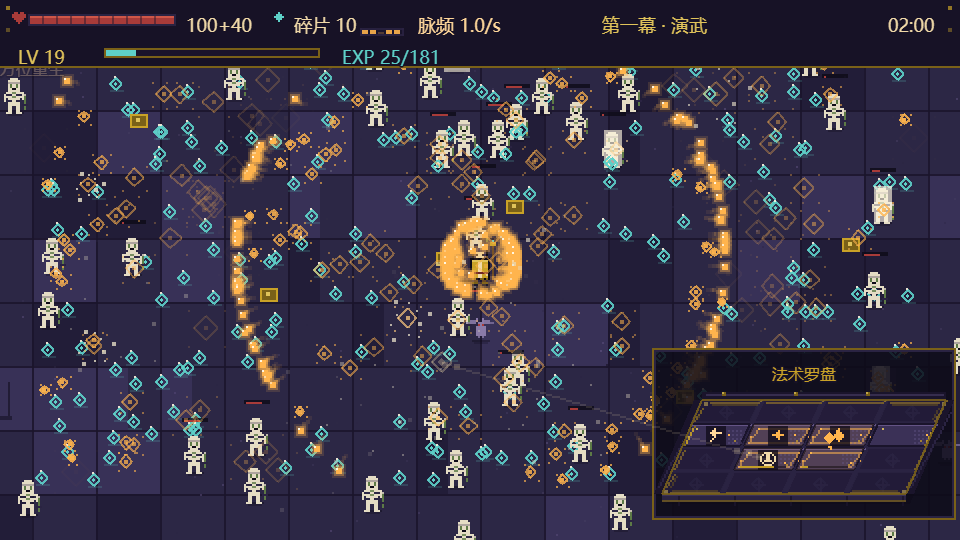
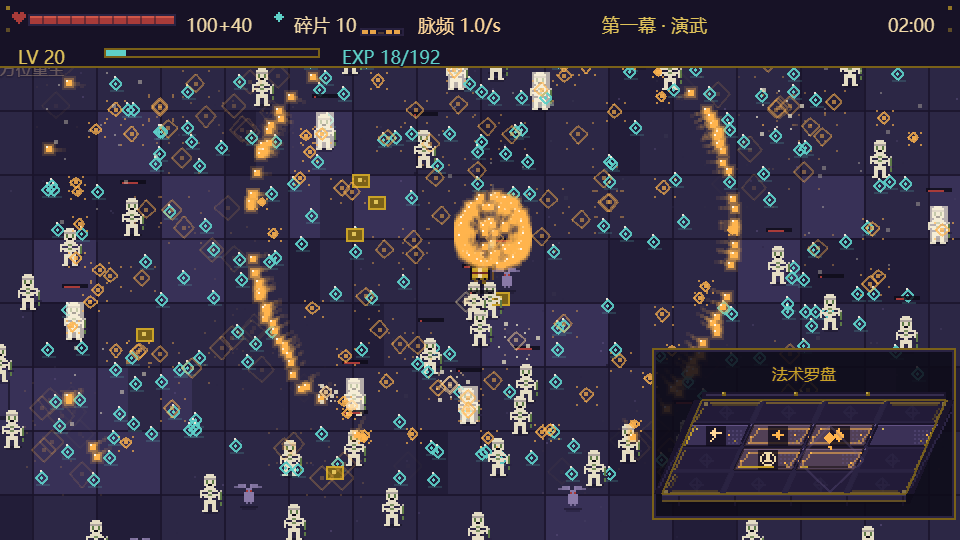
feat: 法术特效统一从法杖起手；E 编辑法阵界面同步美化

diff --git a/src/scenes/BattleScene.js b/src/scenes/BattleScene.js
@@ -25,7 +25,7 @@ import Boss from '../entities/Boss.js';
 import EncounterPanel from '../ui/EncounterPanel.js';
 import {
   ACT1_CELLS, ACT1_SIGIL_BY_CELL, SIGILS, ENEMY_TYPES, SECTOR,
-  COMBO_NAMES, difficultyAt, PLAYER, cardVisual, pickEnemyType,
+  COMBO_NAMES, difficultyAt, PLAYER, cardVisual, pickEnemyType, RUNE_GLYPHS,
 } from '../data/roster.js';
 import Background from '../ui/Background.js';
 import SigilBoard, { cellCenter } from '../ui/SigilBoard.js';
@@ -36,7 +36,8 @@ import Player from '../entities/Player.js';
 import Enemy from '../entities/Enemy.js';
 import Projectile from '../entities/Projectile.js';
 import Shard from '../entities/Shard.js';
-import { C, HEX, addText, pxRect, pxFrame, pxDiamond, applyPixelZoom, getRenderScale, uiLayerOffset } from '../ui/Palette.js';
+import { C, HEX, addText, pxRect, pxFrame, pxLine, pxPoly, pxDiamond, drawGlyph, applyPixelZoom, getRenderScale, uiLayerOffset } from '../ui/Palette.js';
+import { decoratePlan } from '../ui/board-decor.js';
 import { sfx, toggleSound } from '../audio/Sfx.js';
 
 const BATTLE = { left: 10, right: 470, top: 26, bottom: 262 };
@@ -351,7 +352,8 @@ export default class BattleScene extends Phaser.Scene {
           break;
         }
         const def = this.sigilOf(cellId);
-        const center = cellCenter(cellId);
+        // 所有法术特效统一从法杖尖端起手（世界坐标）；罗盘格子只负责闪灯提示
+        const origin = this.player.staffTip();
         // 方位索敌：只打本格对应扇区内的最近敌人；空区也朝区域中心空射
         const result = resolveTarget(
           cellId,
@@ -359,13 +361,16 @@ export default class BattleScene extends Phaser.Scene {
           this.enemies,
         );
         this.board.flashTrigger(cellId);
-        // 设计稿 2.3 核心：从该格指向对应战场方位的高亮光迹（空区也画）
-        this.effects.directionTrace(center, result.aim, this.sectorRect(cellId), def.color, result.empty);
+        // 从法杖指向目标方位的光迹（空区也画，只是终点是区域中心）
+        this.effects.directionTrace(origin, result.aim, this.sectorRect(cellId), def.color, result.empty);
         if (SIGIL_DEFS[def.id]?.kind === 'ward') {
           this.applySigil(cellId, def.id);
         } else {
-          const projectile = this.fireProjectile(center.x, center.y, result.aim.x, result.aim.y, def, result.target);
-          if (projectile) projectile.cellId = cellId;
+          const projectile = this.fireProjectile(origin.x, origin.y, result.aim.x, result.aim.y, def, result.target);
+          if (projectile) {
+            projectile.cellId = cellId;
+            this.effects.burst(origin.x, origin.y, def.color, 5); // 起手微粒
+          }
         }
         break;
       }
@@ -771,37 +776,104 @@ export default class BattleScene extends Phaser.Scene {
       if (hit) hit.action();
     };
     this.input.on('pointerdown', this.editPointer);
+    // 悬停高亮独立成层（与幕间同一套交互语言）：移上去亮框 + 手型光标
+    // 屏幕固定元素必须挂 uiRoot（场景根上的 scrollFactor-0 会被镜头位移甩出屏幕）
+    this.editHoverG = this.add.graphics().setDepth(5001).setScrollFactor(0);
+    this.uiRoot?.add(this.editHoverG);
+    this.editHoverMove = (pointer) => {
+      if (!this.editOpen) return;
+      const scale = getRenderScale();
+      const lx = pointer.x / scale, ly = pointer.y / scale;
+      const hit = this.editRects?.find(r => lx >= r.x && lx <= r.x + r.w && ly >= r.y && ly <= r.y + r.h);
+      const hg = this.editHoverG;
+      hg.clear();
+      if (hit) {
+        pxRect(hg, hit.x, hit.y, hit.w, hit.h, C.stone, 0.35);
+        pxFrame(hg, hit.x, hit.y, hit.w, hit.h, C.brassLight, 1, 0.85);
+        this.game.canvas.style.cursor = 'pointer';
+      } else if (this.game.canvas.style.cursor !== '') {
+        this.game.canvas.style.cursor = '';
+      }
+    };
+    this.input.on('pointermove', this.editHoverMove);
     this.drawGridEdit();
   }
 
   editNames() { return { ...SIGIL_DEFS, ...AUX_DEFS }; }
 
+  // 编辑界面的分区面板：与幕间工作台同一套视觉语言
+  editPanel(g, x, y, w, h) {
+    pxRect(g, x, y, w, h, C.ink, 0.9);
+    pxFrame(g, x, y, w, h, C.brassDark);
+    pxFrame(g, x + 2, y + 2, w - 4, h - 4, C.brass, 1, 0.2);
+    for (const [sx, sy] of [[x, y], [x + w - 3, y], [x, y + h - 3], [x + w - 3, y + h - 3]]) {
+      pxRect(g, sx, sy, 3, 3, C.brass, 0.9);
+      pxRect(g, sx + 1, sy + 1, 1, 1, C.brassLight, 1);
+    }
+  }
+
+  editGlyphOf(defId) {
+    if (RUNE_GLYPHS[defId]) return RUNE_GLYPHS[defId];
+    const kind = SIGIL_DEFS[defId] ? 'sigil' : 'auxiliary';
+    return cardVisual({ kind, defId })?.glyph ?? null;
+  }
+
   drawGridEdit() {
     if (this.editUI) { this.editUI.destroy(true); this.editUI = null; }
+    this.editHoverG?.clear();
     const ui = this.add.container(0, 0).setDepth(3500).setScrollFactor(0);
     this.uiRoot?.add(ui);
+    // 容器内按插入序渲染：editUI 每次重建都会压住悬停层，必须重新带到最顶
+    this.uiRoot?.bringToTop(this.editHoverG);
     this.editUI = ui;
     this.editRects = [];
     const g = this.add.graphics();
     ui.add(g);
-    pxRect(g, 0, 0, 480, 270, C.void, 0.94);
+    // 背景：不透明压底（盖住暂停菜单文字）+ 硬边竖纹 + 双层外框（与幕间同一套语言）
+    pxRect(g, 0, 0, 480, 270, C.void);
+    for (let x = 0; x < 480; x += 24) pxRect(g, x, 0, 12, 270, C.ink, 0.22);
     pxFrame(g, 8, 8, 464, 254, C.brassDark, 2, 1);
-    ui.add(addText(this, 16, 12, '编辑法阵（暂停中 · 冷却保留）', 10, HEX.brassLight));
+    pxFrame(g, 11, 11, 458, 248, C.brass, 1, 0.18);
+    pxRect(g, 12, 12, 456, 15, C.ink, 0.95);
+    pxDiamond(g, 17, 19, 3, C.brass, 0.95, false);
+    ui.add(addText(this, 24, 13, '编辑法阵', 10, HEX.brassLight));
+    ui.add(addText(this, 96, 15, '暂停中 · 冷却保留', 8, HEX.mute));
     const names = this.editNames();
     const draft = this.editDraft;
+    this.editPanel(g, 14, 30, 380, 196);
     for (const id of draft.unlocked) {
       const x = 20 + (id % 4) * 92, y = 34 + Math.floor(id / 4) * 46;
       const slot = draft.slots?.[id];
-      const g2 = this.add.graphics();
-      pxRect(g2, x, y, 84, 38, slot ? C.stoneDark : C.nightDeep);
-      pxFrame(g2, x, y, 84, 38, this.editSelected === id ? C.teal : C.brassDark, 1, 1);
-      ui.add(g2);
-      ui.add(addText(this, x + 4, y + 4, (id + 1) + '号 ' + (slot ? names[slot.defId]?.name ?? slot.defId : '空'), 7, slot?.kind === 'auxiliary' ? HEX.teal : HEX.parchment));
-      if (slot) ui.add(addText(this, x + 4, y + 22, '点击收回', 7, HEX.mute));
-      else ui.add(addText(this, x + 4, y + 22, '空', 7, HEX.mute));
+      const selected = this.editSelected === id;
+      pxRect(g, x, y, 84, 38, slot ? C.stone : C.night);
+      if (slot) {
+        pxRect(g, x + 1, y + 1, 82, 1, C.groove, 0.3);
+        pxRect(g, x + 1, y + 36, 82, 1, C.nightDeep, 0.45);
+      }
+      // 区位装饰：与战斗罗盘/幕间同一份规则
+      const plan = decoratePlan(id, [{ x, y }, { x: x + 84, y }, { x: x + 84, y: y + 38 }, { x, y: y + 38 }], { inset: 1, arm: 6, centerInset: 1 });
+      if (plan) {
+        const dim = slot ? 1 : 0.6;
+        if (plan.wash) pxPoly(g, plan.wash.quad, C[plan.wash.color], plan.wash.alpha * dim);
+        for (const line of plan.lines) pxLine(g, line.a.x, line.a.y, line.b.x, line.b.y, C[line.color], line.alpha * dim, line.width ?? 1);
+        for (const dot of plan.dots) pxRect(g, Math.round(dot.x), Math.round(dot.y), dot.size ?? 1, dot.size ?? 1, C[dot.color], dot.alpha * dim);
+      }
+      pxFrame(g, x, y, 84, 38, selected ? C.teal : C.stoneLight, selected ? 2 : 1);
+      if (slot) {
+        const visual = cardVisual(slot);
+        if (visual.glyph) drawGlyph(g, x + 5, y + 5, visual.glyph, visual.color ?? C.arcaneLight, { scale: 2, alpha: 0.95 });
+        ui.add(addText(this, x + 24, y + 6, names[slot.defId]?.name ?? slot.defId, 8, slot?.kind === 'auxiliary' ? HEX.teal : HEX.parchment));
+        const target = draft.auxTargets?.[id];
+        ui.add(addText(this, x + 4, y + 26, (id + 1) + '号 · ' + (target !== undefined ? ('→ ' + (target + 1) + ' 号') : '点击收回'), 7, HEX.mute));
+      } else {
+        pxDiamond(g, x + 10, y + 12, 3, C.stoneDark, 0.9, false);
+        ui.add(addText(this, x + 24, y + 6, '空符位', 8, HEX.mute));
+        ui.add(addText(this, x + 4, y + 26, (id + 1) + '号 · 从手牌放入', 7, HEX.mute));
+      }
       this.editRects.push({ x, y, w: 84, h: 38, action: () => this.editCellClick(id) });
     }
-    ui.add(addText(this, 400, 34, '手牌', 9, HEX.brass));
+    this.editPanel(g, 392, 30, 82, 174);
+    ui.add(addText(this, 398, 33, '手牌', 8, HEX.brass));
     const hand = Object.entries(this.editHand).filter(([, count]) => count > 0);
     const lastPage = Math.max(0, Math.ceil(hand.length / 5) - 1);
     this.editHandPage = Math.min(this.editHandPage, lastPage);
@@ -810,15 +882,24 @@ export default class BattleScene extends Phaser.Scene {
       const defId = key.split(':')[1];
       const y = 52 + row * 24;
       const bg = this.add.graphics();
-      pxRect(bg, 396, y, 76, 20, C.stoneDark); pxFrame(bg, 396, y, 76, 20, this.editSelected === key ? C.teal : C.brassDark, 1, 1);
+      const isSel = this.editSelected === key;
+      pxRect(bg, 396, y, 76, 20, isSel ? C.nightSoft : C.night, 0.95);
+      pxFrame(bg, 396, y, 76, 20, isSel ? C.teal : C.stoneLight, 1, 1);
+      const glyph = this.editGlyphOf(defId);
+      if (glyph) drawGlyph(bg, 399, y + 6, glyph, isSel ? C.arcaneLight : C.parchment, { alpha: 0.95 });
       ui.add(bg);
-      ui.add(addText(this, 398, y + 3, (names[defId]?.name ?? defId) + '×' + count, 7, HEX.parchment));
+      ui.add(addText(this, 410, y + 7, (names[defId]?.name ?? defId) + '×' + count, 7, isSel ? HEX.arcaneLight : HEX.parchment));
       this.editRects.push({ x: 396, y, w: 76, h: 20, action: () => { this.editSelected = this.editSelected === key ? null : key; this.editNote = this.editSelected ? '选中，点符位放置' : ''; this.drawGridEdit(); } });
       row++;
     }
-    ui.add(addText(this, 396, 200, this.editNote, 7, HEX.arcaneLight, { wordWrap: { width: 76 } }));
+    if (!row) ui.add(addText(this, 400, 56, '没有手牌', 7, HEX.mute));
+    // 操作提示放底部横条：右栏太窄，长提示会溢出面板
+    ui.add(addText(this, 20, 234, this.editNote || '点手牌再点符位放置；点已放置的卡收回。', 8, HEX.arcaneLight));
     if (lastPage > 0) {
-      ui.add(addText(this, 398, 178, '◀ ' + (this.editHandPage + 1) + '/' + (lastPage + 1) + ' ▶', 8, HEX.teal));
+      pxRect(g, 396, 174, 76, 20, C.nightDeep, 0.9);
+      pxFrame(g, 396, 174, 76, 20, C.stoneLight, 1, 0.7);
+      pxLine(g, 434, 174, 434, 194, C.stoneLight, 0.7, 1);
+      ui.add(addText(this, 434, 184, '◀ ' + (this.editHandPage + 1) + '/' + (lastPage + 1) + ' ▶', 7, HEX.teal).setOrigin(0.5, 0.5));
       for (const [x, step] of [[396, -1], [434, 1]]) this.editRects.push({ x, y: 174, w: 38, h: 20, action: () => {
         this.editHandPage = (this.editHandPage + step + lastPage + 1) % (lastPage + 1); this.drawGridEdit();
       } });
@@ -886,6 +967,9 @@ export default class BattleScene extends Phaser.Scene {
     this.engine.setCombos(buildComboCatalog(['duo', 'line3', 'elbow3', 'ring4']).filter(inst => inst.order.every(id => this.grid.cells[id].unlocked && this.grid.cells[id].slot?.kind === 'sigil' && !this.grid.cells[id].mutedOutput)));
     this.editOpen = false;
     if (this.editPointer) { this.input.off('pointerdown', this.editPointer); this.editPointer = null; }
+    if (this.editHoverMove) { this.input.off('pointermove', this.editHoverMove); this.editHoverMove = null; }
+    this.editHoverG?.destroy(true); this.editHoverG = null;
+    this.game.canvas.style.cursor = '';
     this.editUI?.destroy(true); this.editUI = null;
     this.openPause('menu');
   }
@@ -1322,7 +1406,8 @@ export default class BattleScene extends Phaser.Scene {
       while (this.shards.length < 200) this.spawnShard(this.player.x - 220 + this.combatRng.next() * 440, this.player.y - 105 + this.combatRng.next() * 210);
       while (this.projectiles.length < 300) {
         const def = cardVisual({ kind: 'sigil', defId: 'arcane_bolt' });
-        if (!this.fireProjectile(this.player.x, this.player.y, this.player.x - 220 + this.combatRng.next() * 440, this.player.y - 105 + this.combatRng.next() * 210, def, null)) break;
+        const o = this.player.staffTip();
+        if (!this.fireProjectile(o.x, o.y, this.player.x - 220 + this.combatRng.next() * 440, this.player.y - 105 + this.combatRng.next() * 210, def, null)) break;
       }
     };
     for (let i = 0; i < 6; i++) spawnWave();

diff --git a/src/ui/EffectsLayer.js b/src/ui/EffectsLayer.js
@@ -130,18 +130,20 @@ export default class EffectsLayer {
 
       if (it.kind === 'trace') {
         const color = it.color ?? C.arcane;
+        // 起点法杖、终点目标：两端都是世界坐标，统一按镜头换算到屏幕
+        const fx = sx(it.from.x); const fy = sy(it.from.y);
         const tx = sx(it.to.x); const ty = sy(it.to.y);
-        // 格子上方 22px 的垂直光柱（2.5D 的第二根视觉支柱）
+        // 法杖上方的施法光柱（世界层直接画，随镜头滚动）
         pxRect(g, Math.round(it.from.x) - 1, Math.round(it.from.y) - 24, 3, 24, color, 0.28 * a);
         pxRect(g, Math.round(it.from.x), Math.round(it.from.y) - 28, 1, 6, color, 0.55 * a);
-        // 主光迹：从格指向战场方位。空区也画，只是终点是区域中心。
-        pxLine(sg, it.from.x, it.from.y, tx, ty, color, 0.42 * a, 1);
-        // 流动亮段：让「哪一格在打」有明确的指向感
+        // 主光迹：从法杖指向目标方位。空区也画，只是终点是区域中心。
+        pxLine(sg, fx, fy, tx, ty, color, 0.42 * a, 1);
+        // 流动亮段：让「哪一下在飞」有明确的指向感
         const flow = (this.clock / 420) % 1;
         for (let s = 0; s < 5; s++) {
           const u = (flow + s * 0.035) % 1;
-          const px = it.from.x + (tx - it.from.x) * u;
-          const py = it.from.y + (ty - it.from.y) * u;
+          const px = fx + (tx - fx) * u;
+          const py = fy + (ty - fy) * u;
           pxRect(sg, Math.round(px) - 1, Math.round(py) - 1, 3, 3, color, 0.7 * a);
         }
         // 终点标记：命中目标为实心菱形，空射为空心加十字

diff --git a/src/entities/Player.js b/src/entities/Player.js
@@ -2,6 +2,12 @@
 import { C, pxRect, pxDiamond } from '../ui/Palette.js';
 import { PLAYER } from '../data/roster.js';
 
+// 法杖尖端（世界坐标）：所有法术特效的统一出发位置。
+// 与 draw() 里的杖身像素严格对齐：杖头在朝向侧 +6/-7，尖端在头顶上方 15px。
+export function staffTipOf(x, y, facing) {
+  return { x: facing > 0 ? x + 6 : x - 7, y: y - 15 };
+}
+
 export default class Player {
   constructor(scene, x, y) {
     this.scene = scene;
@@ -58,6 +64,11 @@ export default class Player {
     return true;
   }
 
+  // 法杖尖端（世界坐标）：弹丸、光迹、起手微粒都从这里出发
+  staffTip() {
+    return staffTipOf(this.x, this.y, this.facing);
+  }
+
   draw(now) {
     const g = this.g;
     g.clear();
@@ -79,7 +90,7 @@ export default class Player {
       return;
     }
 
-    // 法杖：随朝向换边
+    // 法杖：随朝向换边（尖端位置由 staffTipOf 定义，特效从这里起手）
     const staffX = this.facing > 0 ? x + 6 : x - 7;
     pxRect(g, staffX, y - 12 - bob, 1, 17, 0x6b4a24, 1);
     pxRect(g, staffX - 1, y - 14 - bob, 3, 2, C.brass, 1);

diff --git a/tests/staff-origin.test.js b/tests/staff-origin.test.js
@@ -1,0 +1,19 @@
+import { describe, it, expect } from 'vitest';
+import { staffTipOf } from '../src/entities/Player.js';
+
+describe('法杖起手点', () => {
+  it('朝右时杖尖在右侧 +6，朝左时在左侧 -7', () => {
+    expect(staffTipOf(100, 100, 1)).toEqual({ x: 106, y: 85 });
+    expect(staffTipOf(100, 100, -1)).toEqual({ x: 93, y: 85 });
+    expect(staffTipOf(100, 100, 0)).toEqual({ x: 93, y: 85 }); // 非正朝向按左侧处理
+  });
+  it('尖端在头顶上方 15px，与绘制像素对齐', () => {
+    const tip = staffTipOf(50, 60, 1);
+    expect(tip.y).toBe(45);
+  });
+  it('只依赖输入，不修改任何全局状态（可重复调用）', () => {
+    const a = staffTipOf(10, 20, 1);
+    const b = staffTipOf(10, 20, 1);
+    expect(a).toEqual(b);
+  });
+});

diff --git a/docs/大地图验收记录.md b/docs/大地图验收记录.md
@@ -32,11 +32,11 @@
 
 ## 3. 自动化结果
 
-- 全量单测：**21 个测试文件、641 项通过**（含索敌覆盖、刷怪密度、盘面区位装饰、暂停菜单命中、法术扩充与图标、铭文图标与绘图工具六组）。
+- 全量单测：**22 个测试文件、644 项通过**（含索敌覆盖、刷怪密度、盘面区位装饰、暂停菜单命中、法术扩充与图标、铭文图标与绘图工具、法杖起手七组）。
 - 生产构建：成功（体积见构建输出，Phaser 为主要来源）。
 - 最终浏览器回归：**十四套全部通过，pageerror 为零**；加标准盘与长时压测共 14 项，统一入口输出 `ACCEPTANCE_ALL_PASS 14`，退出码 0。最终原始输出见[验收日志](<大地图验收日志.txt>)。
-- 120 秒高负载（本轮按 2× 画布 960×540 测）：采样 28,739 帧，模拟时钟推进 120,011.33 ms，结束时仍为 play；150 敌 / 293 弹丸 / 200 碎片，显示对象 666。帧间隔 p50 4.2 ms、p95 4.3 ms、p99 4.7 ms、单帧最大 12.5 ms（headless Edge 软件渲染口径，像素量是旧 480×270 的 4 倍，绝对值偏悲观，不等于真机 FPS）。
-- 对象池：弹丸创建不超过 300、复用 83,923 次；碎片创建不超过 200、复用 10 次。压力下容量拒绝计数分别 12 / 1,863，明确保留统计，不宣称零饱和。连续五次重开均回到 0 敌 / 1 弹丸 / 0 碎片 / 44 显示对象。
+- 120 秒高负载（本轮按 2× 画布 960×540 测）：采样 28,710 帧，模拟时钟推进 120,007.10 ms，结束时仍为 play；150 敌 / 297 弹丸 / 200 碎片，显示对象 666。帧间隔 p50 4.2 ms、p95 4.3 ms、p99 4.8 ms、单帧最大 29.3 ms（headless Edge 软件渲染口径，像素量是旧 480×270 的 4 倍，绝对值偏悲观，不等于真机 FPS）。
+- 对象池：弹丸创建不超过 300、复用 83,243 次；碎片创建不超过 200、复用 10 次。压力下容量拒绝计数分别 10 / 2,055，明确保留统计，不宣称零饱和。连续五次重开均回到 0 敌 / 1 弹丸 / 0 碎片 / 44 显示对象。
 - 文档相对链接检查：缺失链接 0；最终提交前再次执行。
 - 统一入口：[acceptance.mjs](<../scripts/acceptance.mjs>)，包含原七套回归（布局、工作台、问答双路径、三幕、成长、开局套装、帮助）加上暂停编辑、奖励接线、索敌与拥挤、鼠标可达性四套，共十一套浏览器回归，另加标准盘仿真及 120 秒压测。任何一项失败即非零退出。视觉核查辅助脚本：[文字与布局截图](<../scripts/text-shot.mjs>)、[其余场景截图](<../scripts/scene-shot.mjs>)、[敌人分布探针](<../scripts/battle-shot.mjs>)。
 
@@ -118,6 +118,23 @@ node scripts/check-docs.mjs
 
 - 单测 `hitRowAt`：四行命中、文字两端仍命中、行外与面板外不误触、非法输入返回 -1。
 - 新增浏览器审计 [pointer-smoke](<../scripts/pointer-smoke.mjs>)：在 1920×1080（倍率 4）下真实点击 9 条路径——标题开始 → 选包切卡（bolt→flame）→ 点按钮出战 → 点升级卡（手牌 0→1）→ 点暂停“编辑法阵” → 点“完成” → 点“继续战斗” → 点“返回标题” → 点“重开本局”（bootCount 增加）→ 结算页点一下再战，全部断言通过，pageerror 为零。
+
+### 法杖起手与 E 编辑界面同步（本轮）
+
+反馈：①法术所有特效都应从法杖处触发；②菜单按 E 的编辑罗盘界面没有同步美化。
+
+排查：弹丸与方位光迹原来都从**罗盘格子中心**（右下角 HUD）起手——弹丸从板子上飞出来，光迹起点也钉在板子上。
+
+改动：
+
+- 新增纯函数 `staffTipOf(x, y, facing)`（[Player.js](<../src/entities/Player.js>) 导出）定义杖尖：朝向侧 +6/-7、头顶上方 15px，与法杖像素严格对齐；`player.staffTip()` 供场景取用。3 项单测锁定朝向与偏移。
+- 触发时统一从杖尖起手：**弹丸生成点、方位光迹起点、起手微粒**（5 颗）与施法光柱全部改到法杖；罗盘格子保留闪灯提示，格=方位的教学由闪灯与方位小图承担。压测注弹入口同步改杖尖。
+- 光迹两端现在都是世界坐标，渲染统一按 `worldView` 换算（修掉了原来「起点屏幕坐标 + 终点世界坐标」的混用）。
+- **E 编辑界面**（drawGridEdit）同步幕间的美化：分区面板 + 四角铆钉、标题栏、格内法术图标（2× 字模）与「N号 · 点击收回/从手牌放入」明细、区位装饰同一份规则、手牌行带图标与选中高亮、悬停亮框 + 手型光标、背景硬边竖纹。**全部命中区坐标未动**，pause-edit 回归零迁移照跑。
+
+修复的两个渲染坑：编辑界面悬停层起初挂在场景根上（会被镜头位移甩出屏幕），必须挂 `uiRoot`；挂进去后又被每次重建的 editUI 盖住，需在重绘后 `bringToTop`。操作提示移到底部横条避免在窄右栏里溢出。
+
+截图：[法杖起手](<staff-origin.png>)、[编辑法阵美化](<编辑法阵美化.png>)。
 
 ### 问答页按钮状态与点击修复（本轮）
 

diff --git a/docs/交付说明.md b/docs/交付说明.md
@@ -36,7 +36,7 @@
 | WASD / 方向键 | 在世界地图走位，镜头跟随 |
 | 按住空格 | 暂停并观察法阵细目，松开恢复（菜单/失焦暂停另算） |
 | Esc | 暂停菜单 / 手动继续 |
-| 暂停菜单内 E | 打开法阵编辑，点选手牌再点格子放置；手牌五项一页、左右箭头切页 |
+| 暂停菜单内 E | 打开法阵编辑（与幕间同款面板/图标/悬停），点选手牌再点格子放置；手牌五项一页、左右箭头切页 |
 | 暂停菜单内 R / T | 重开本局 / 返回标题 |
 | M | 合成音效开关 |
 
